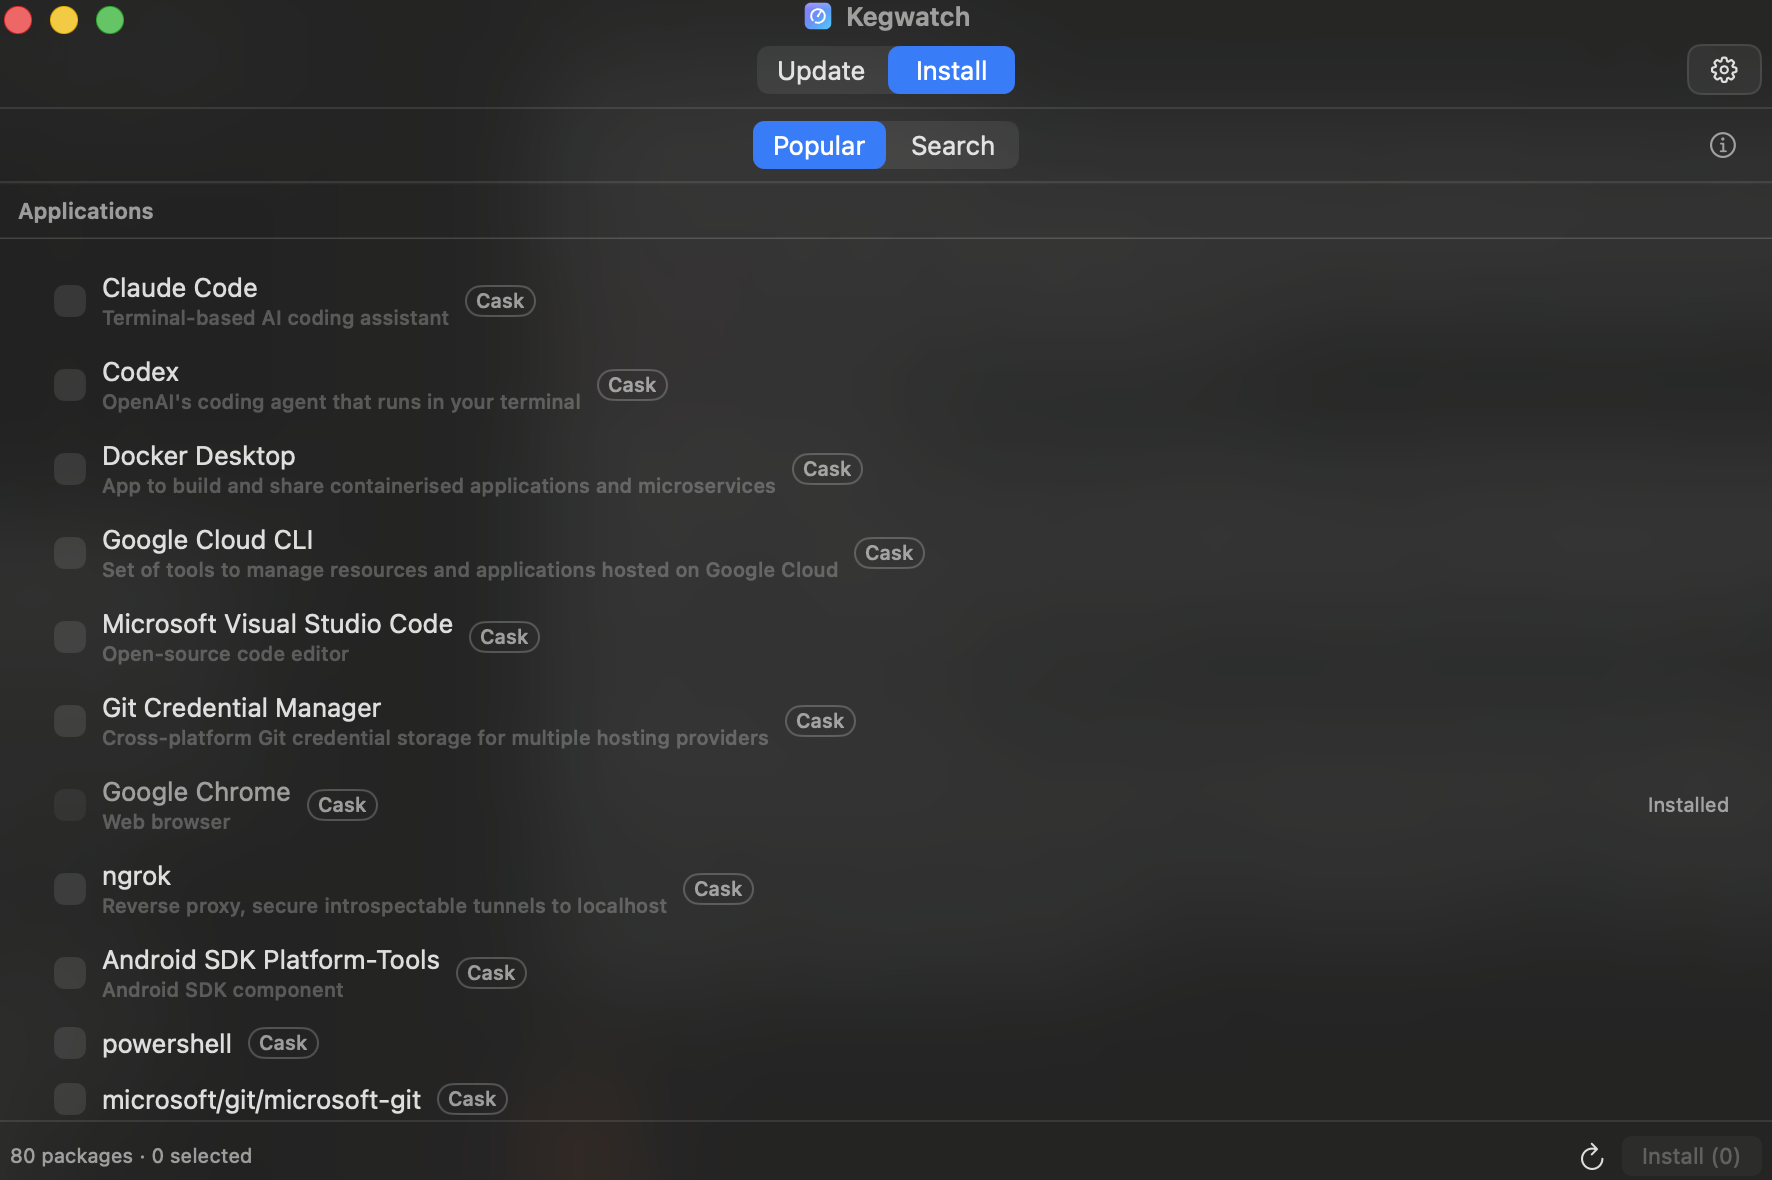
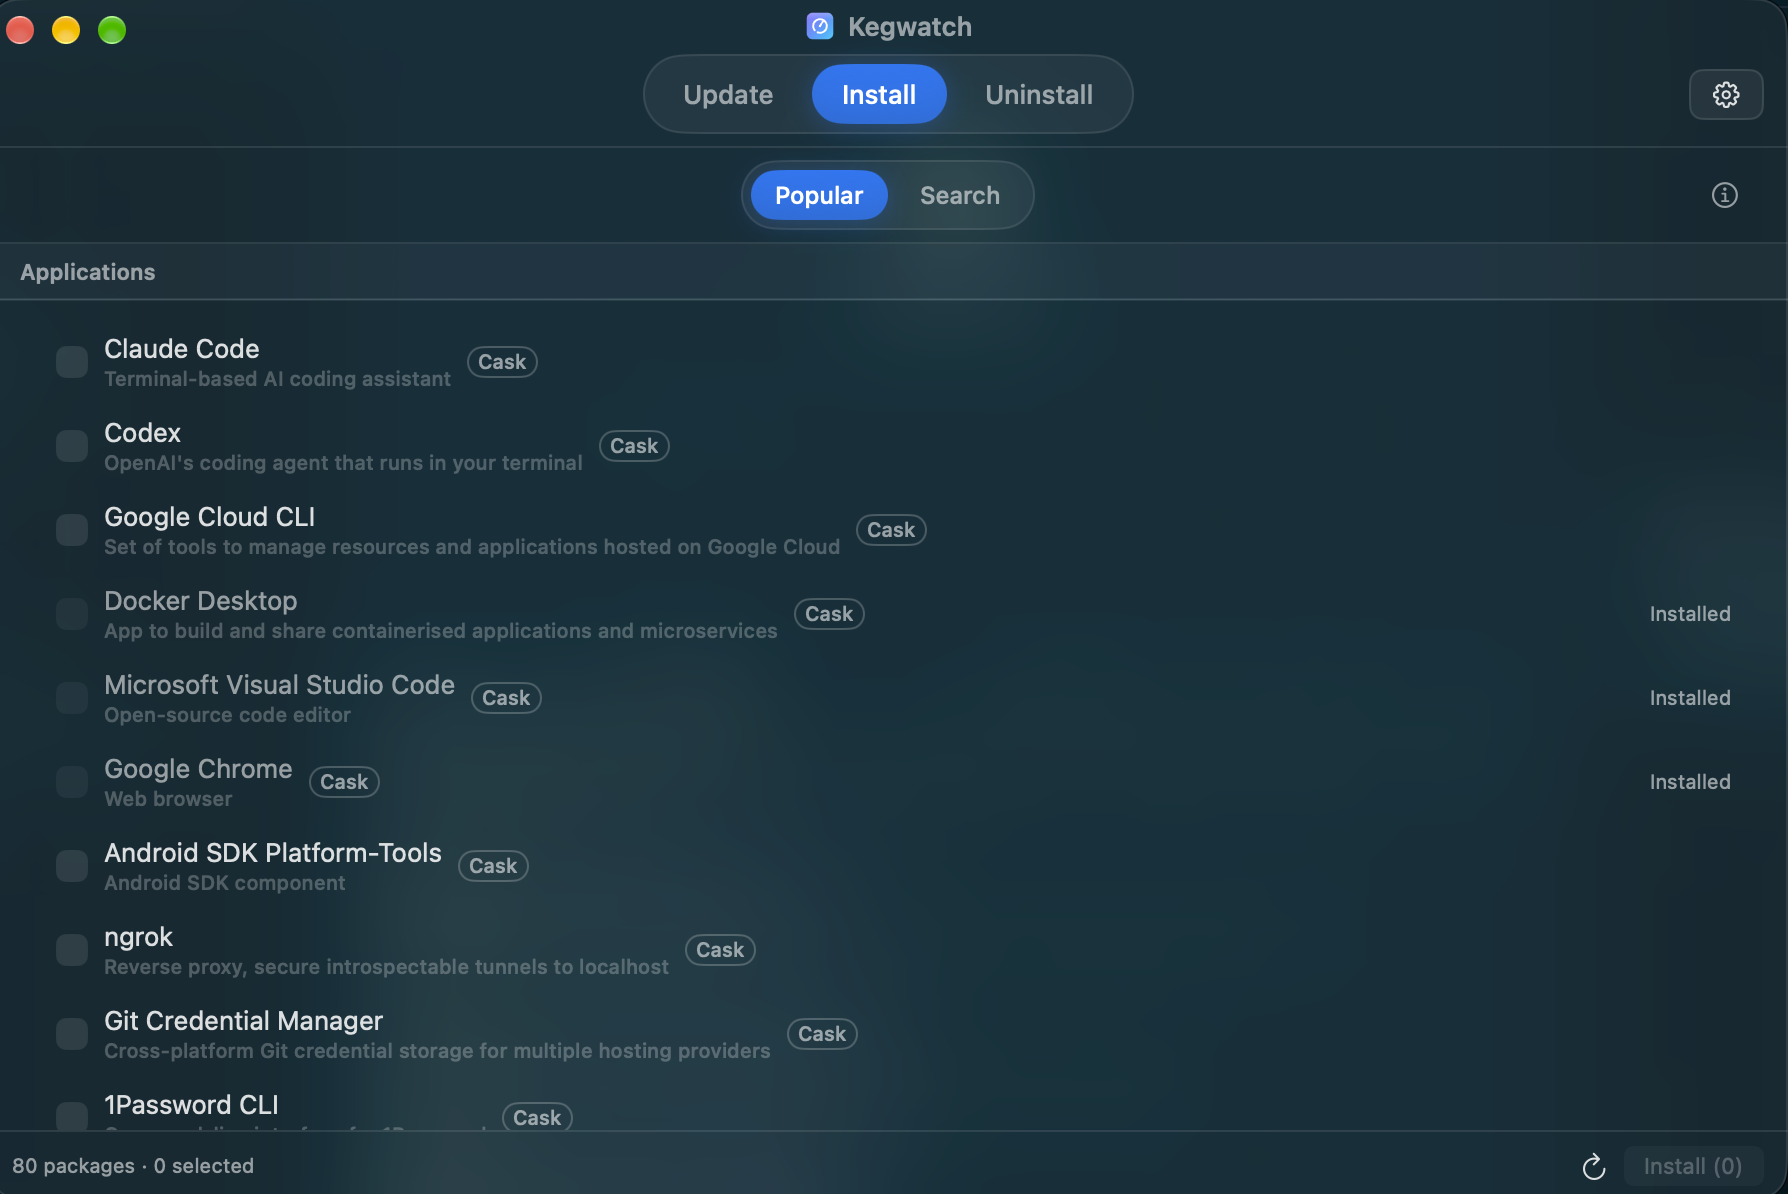
assets: refresh screenshots (glassy 1.4.0) + add uninstall & migrate shots

diff --git a/index.html b/index.html
@@ -70,7 +70,7 @@
   /* shots */
   .shots { display: flex; flex-direction: column; align-items: center; gap: 22px; }
   .shots img { max-width: 100%; border-radius: 12px; border: 1px solid var(--panel-brd); box-shadow: 0 16px 50px rgba(0,0,0,.5); }
-  .shots img.small { max-width: 440px; }
+  .shots img.small { max-width: 520px; }
 
   /* how */
   .steps { display: grid; grid-template-columns: repeat(3, 1fr); gap: 14px; }
@@ -213,7 +213,9 @@
       <div class="shots">
         <img src="assets/screenshot-update.png" alt="One list for every update source">
         <img src="assets/screenshot-install.png" alt="Browse and install apps">
-        <img class="small" src="assets/screenshot-schedule.png" alt="Automatic scan schedule">
+        <img src="assets/screenshot-uninstall.png" alt="Clean uninstall of Homebrew apps">
+        <img class="small" src="assets/screenshot-schedule.png" alt="Automatic scan schedule with optional auto-install">
+        <img class="small" src="assets/screenshot-migrate.png" alt="Export and import your apps with a Brewfile">
       </div>
     </section>
 
